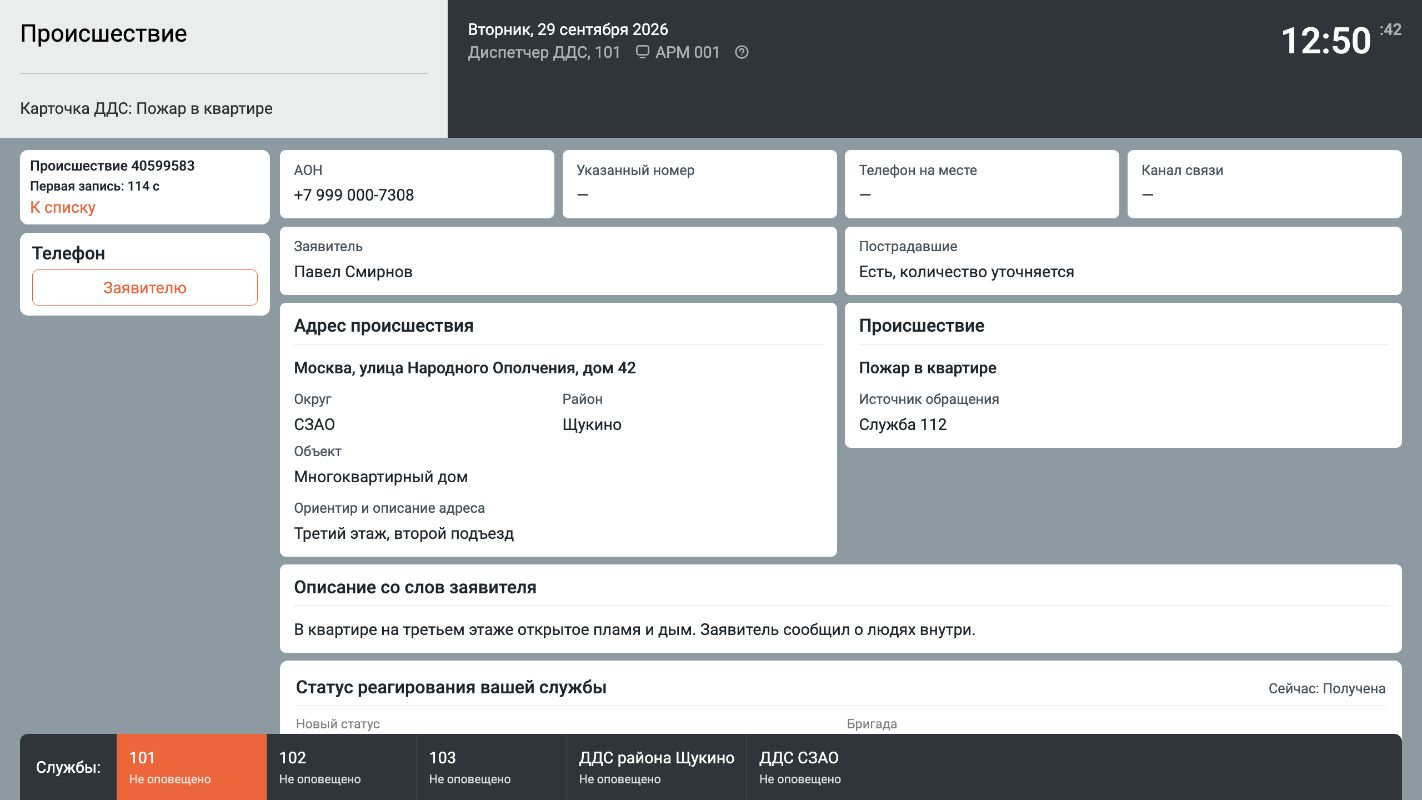
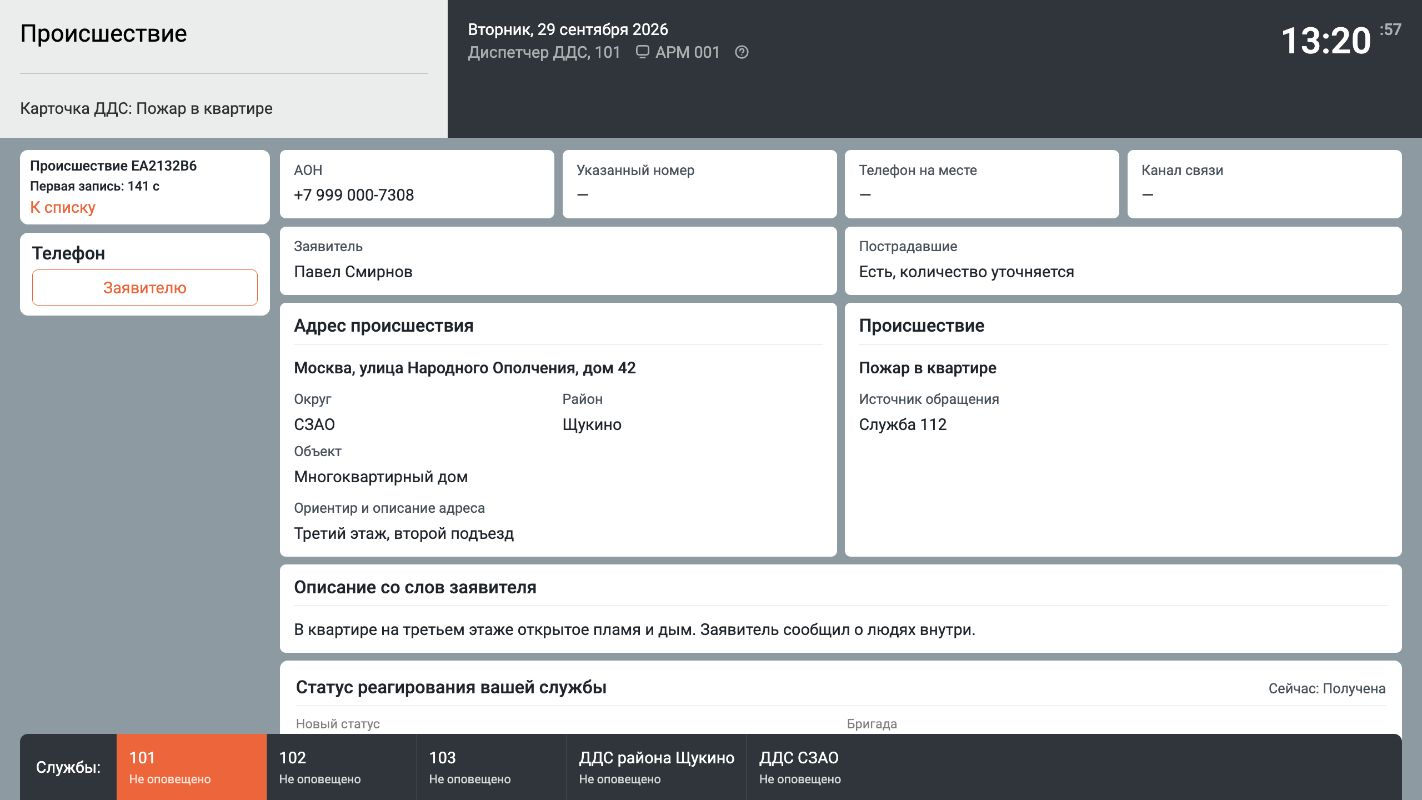
fix: align DDS panels

Changed region(s): [[0.5879, 0.5625, 0.9902, 0.7188], [0.8973, 0.0312, 0.9592, 0.0625], [0.0928, 0.1875, 0.1547, 0.2188]]

diff --git a/site/src/components/dds/DdsCardDetails.module.css b/site/src/components/dds/DdsCardDetails.module.css
@@ -35,7 +35,7 @@
 .columns {
   display: grid;
   grid-template-columns: minmax(0, 1fr) minmax(0, 1fr);
-  align-items: start;
+  align-items: stretch;
   gap: 8px;
 }
 
